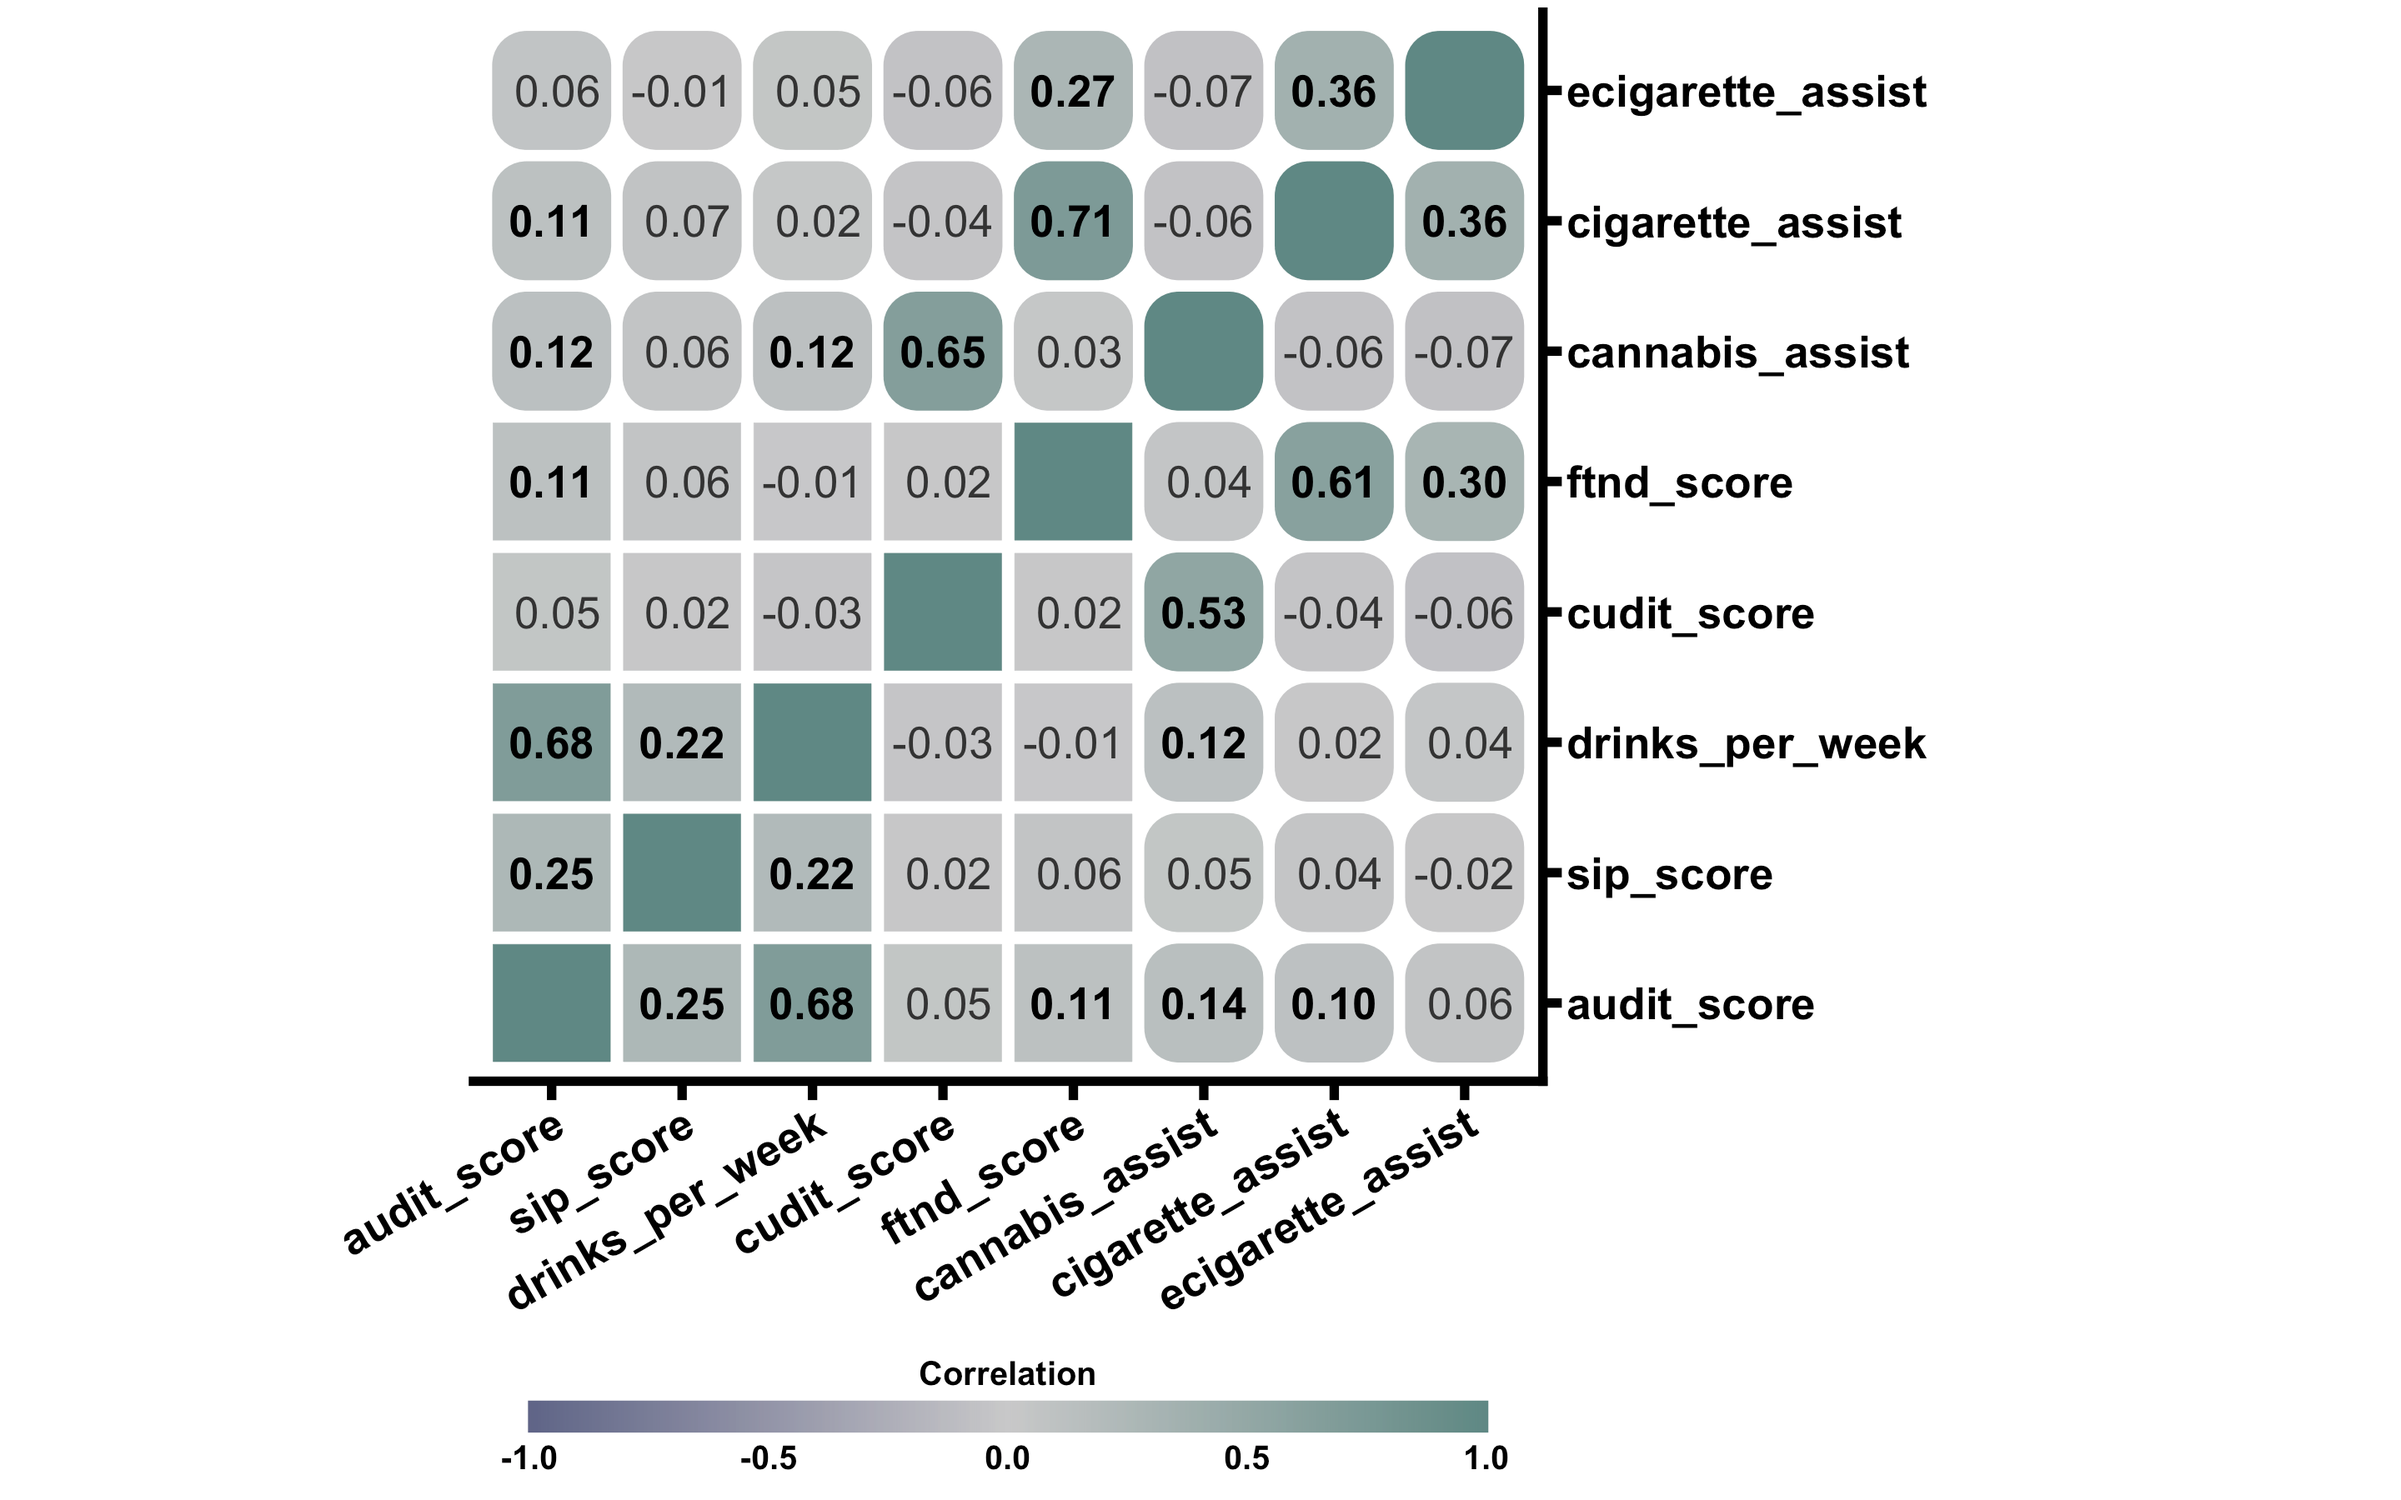
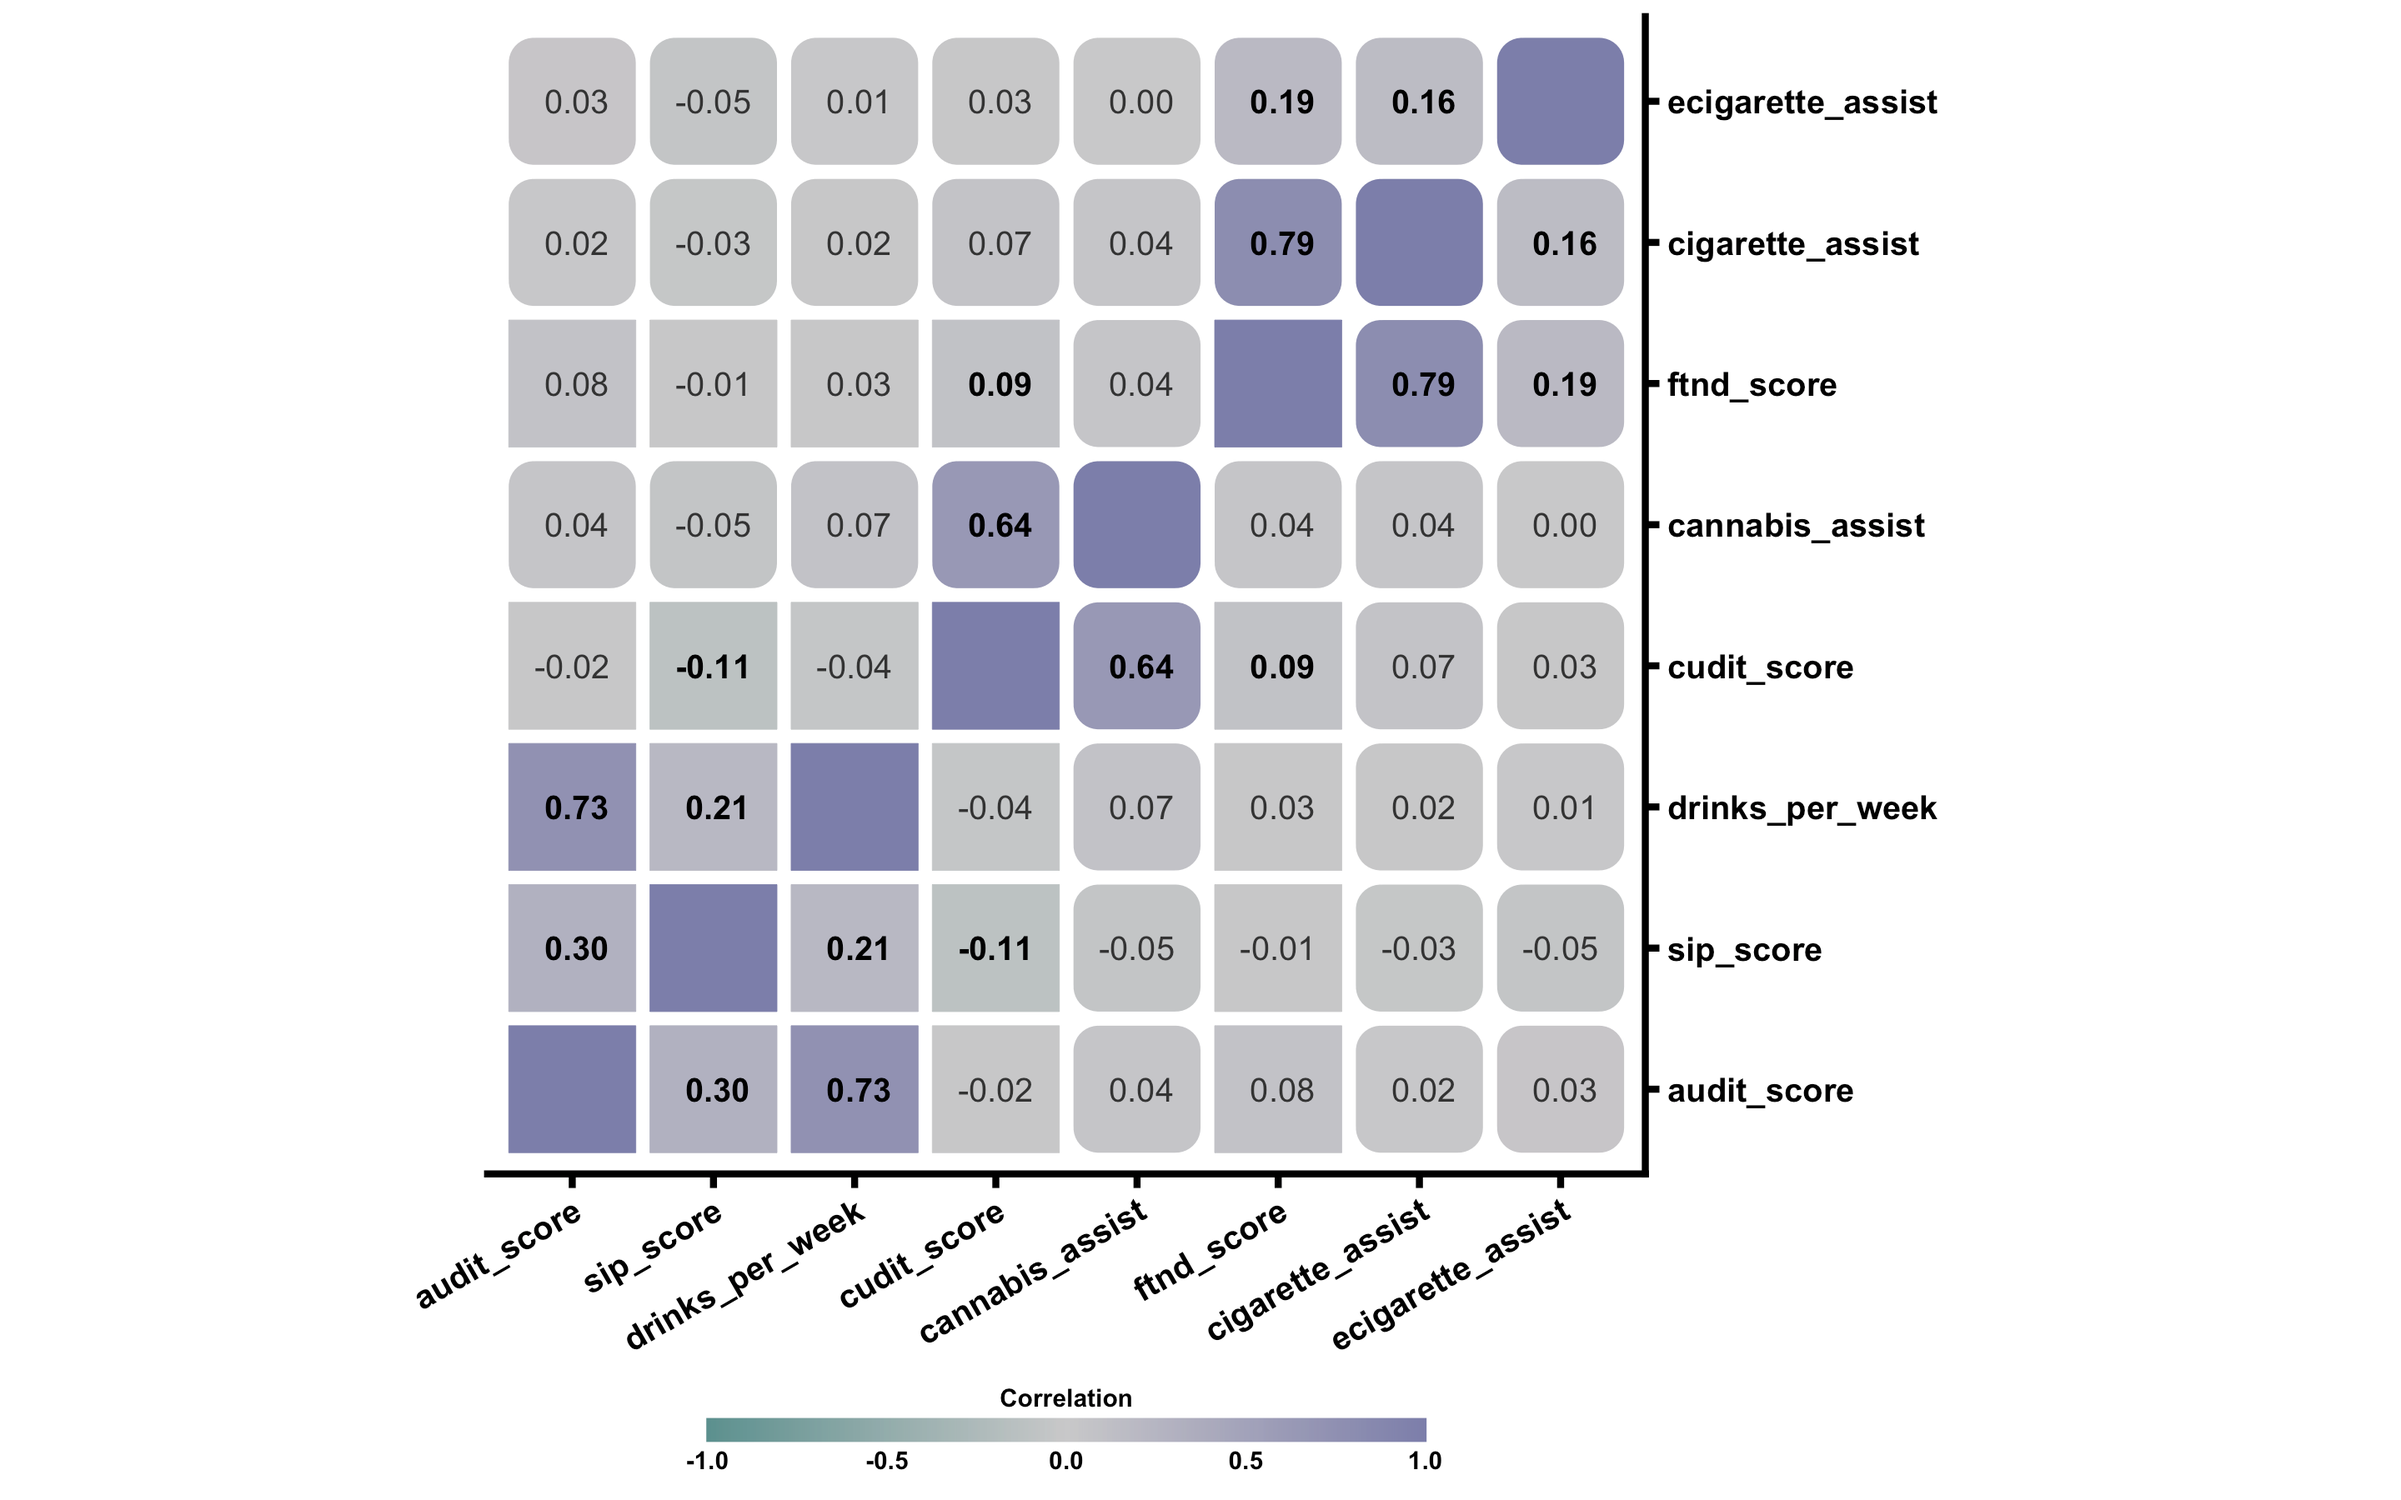
Add files via upload

Changed region(s): [[0.125, 0.0, 0.8125, 0.9956], [0.5938, 0.84, 0.625, 0.8711], [0.5625, 0.8711, 0.5938, 0.9022]]

diff --git a/LICENSE.md b/LICENSE.md
@@ -1,6 +1,6 @@
 # MIT License
 
-Copyright (c) 2025 Kyla Belisario
+Copyright (c) 2026 Kyla Belisario
 
 Permission is hereby granted, free of charge, to any person obtaining a copy
 of this software and associated documentation files (the "Software"), to deal
